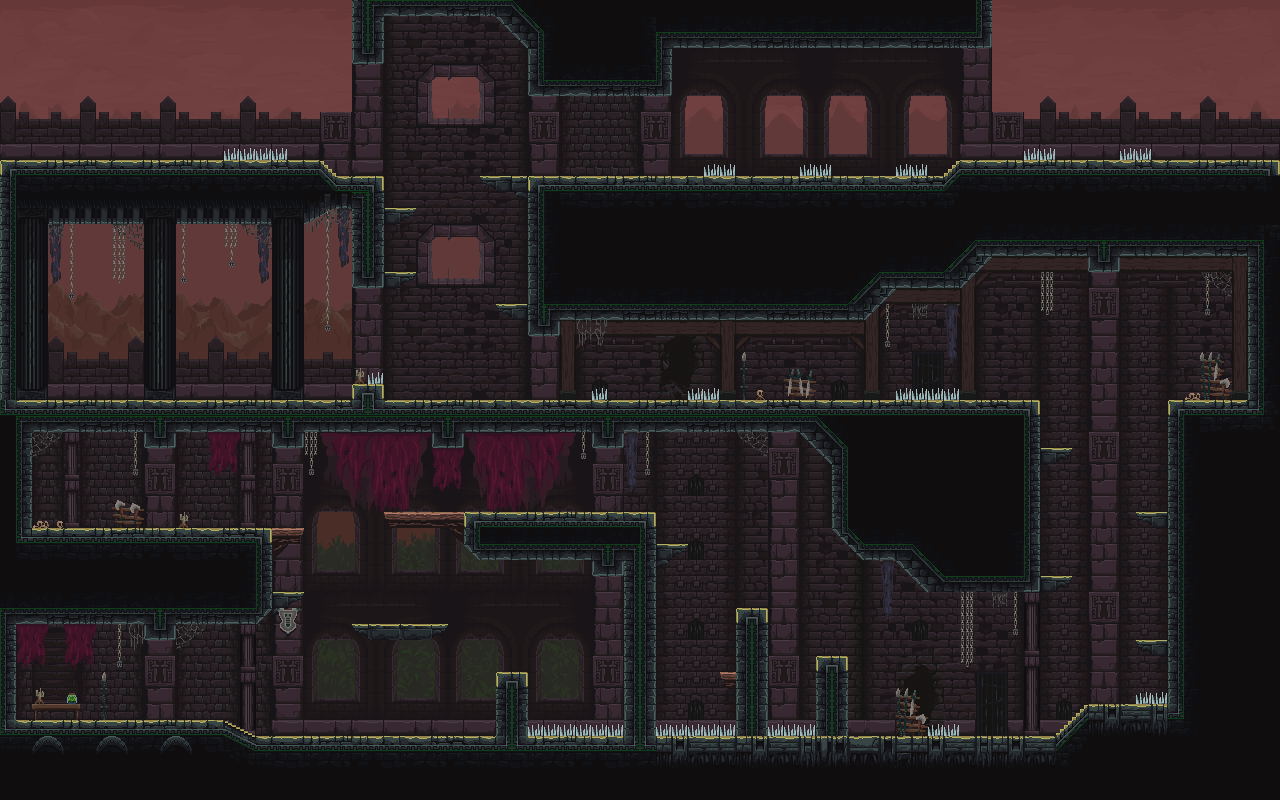
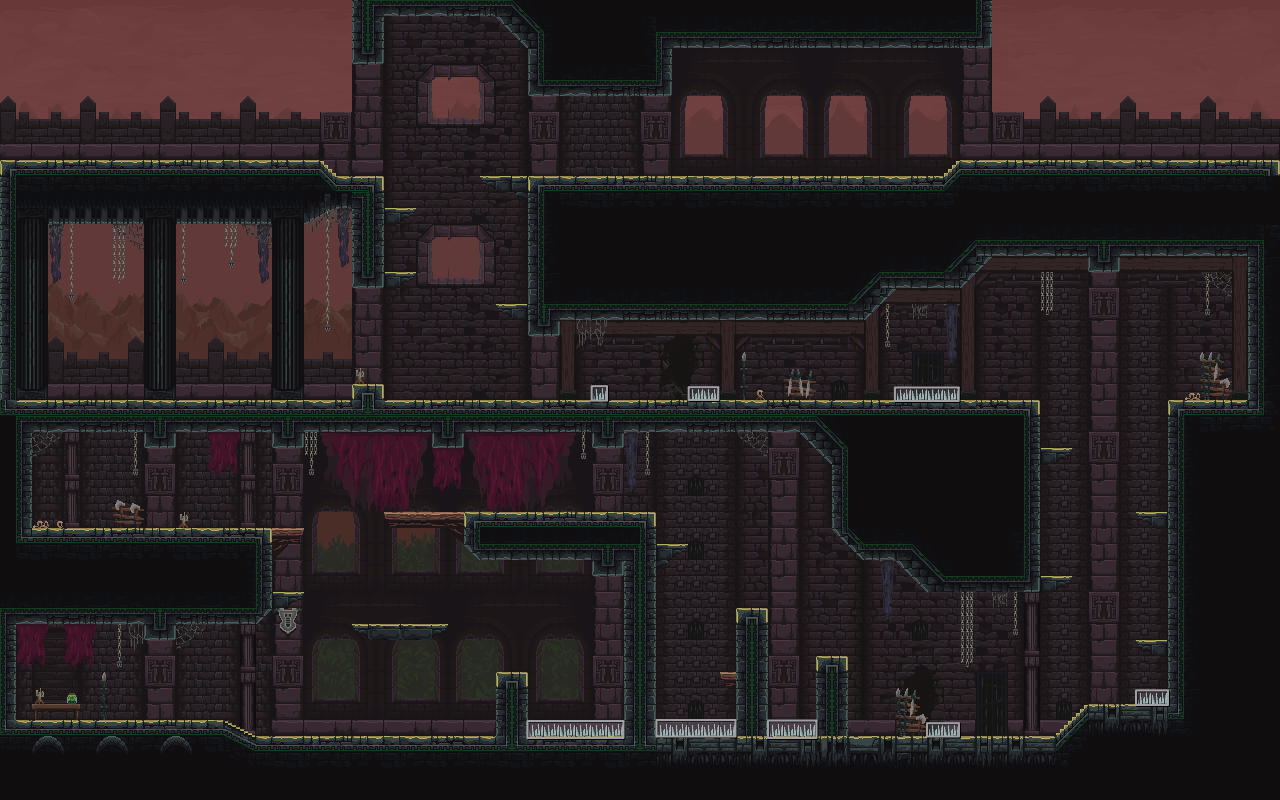
door

diff --git a/src/scenes/room4.js b/src/scenes/room4.js
@@ -6,7 +6,7 @@ import { state } from "../state/globalState";
 import { makeCartridge } from "./healthCartridge";
 import { healthBar } from "../ui/healthBar";
 import { makeNPC } from "../entities/npc"
-import { makeBox } from "../entities/Box";
+import { makeDoor } from "../entities/door"
 
 export function room4(k,room4Data,previousSceneData) {
    
@@ -18,13 +18,10 @@ export function room4(k,room4Data,previousSceneData) {
    const roomLayers = room4Data.layers;
    const map = k.add([k.pos(0,0), k.sprite("room4")]);
 
-
        const colliders = [];
-       const spikes = [];
        const positions = [];
        const cameras = [];  
        const exits = [];
-       
       
 
    
@@ -46,10 +43,11 @@ export function room4(k,room4Data,previousSceneData) {
            if (layer.name === "colliders") {
                colliders.push(...layer.objects);
            }
+           
+        
+           
+           
 
-           if (layer.name === "spikes") {
-                spikes.push(...layer.objects);
-           }
        }
 
        
@@ -62,24 +60,15 @@ export function room4(k,room4Data,previousSceneData) {
        setCameraControls(k,player,map, room4Data);
        setExitZones(k, map, exits, "room3");
 
-       for (const spike of spikes) {
-      k.add([
-        k.rect(spike.width, spike.height),
-        k.pos(spike.x, spike.y),
-        k.area(),
-        k.opacity(0),
-        "spike",
-    ]);
-  }
-        k.onCollide("player", "spike", (player) => {
-        player.hurt(5); // ลด HP เมื่อชนกับ หนาม
-    });
-
+           // ... (โค้ดส่วนบนอื่นๆ)
 
 // ✅ 1. หาบรรทัดที่วนลูปตำแหน่ง (positions)
 let spawned = false;
 
 for (const position of positions) {
+
+  console.log("🔥 positions:", positions);
+  console.log("👉 exitName:", previousSceneData?.exitName);
 
   if (position.name === "player" && !previousSceneData?.exitName) {
     player.setPosition(position.x, position.y);
@@ -87,17 +76,13 @@ for (const position of positions) {
     spawned = true;
     continue;
   }
-  if (position.name === "Tree") {      
-    const Tree = k.add(
-    makeBox(k, k.vec2(position.x, position.y))
-    );
-    continue;
-}
 
   if (
     position.name.includes("entrance-4") &&
     previousSceneData?.exitName === "exit-4"
   ) {
+    console.log("✅ เข้า entrance-4 แล้ว");
+
     player.setPosition(position.x, position.y + 20);
     player.setControl();
     spawned = true;
@@ -114,7 +99,20 @@ for (const position of positions) {
     spawned = true;
     continue;
   }
+  if (position.name === "door") {
+            // สร้าง object ประตูขึ้นมา
+            const door = makeDoor(k, k.vec2(position.x, position.y));
+            
+            // แอดเข้าไปในฉาก (หรือ map.add(door) ถ้าต้องการให้ยึดกับ map)
+            k.add(door); 
+            
+            continue;
+        }
+
+  
 }
+
+
 
 // 🔥 ต้องอยู่นอก loop เท่านั้น
 if (!spawned) {
@@ -134,7 +132,10 @@ if (!spawned) {
     if (player.walkSound) {
         player.walkSound.stop();
         player.walkSound = null;
-      }
-  });
-}
+    }
+});
 
+
+
+
+}

diff --git a/src/entities/door.js b/src/entities/door.js
@@ -1,0 +1,29 @@
+// door.js
+export function makeDoor(k, position) {
+    return k.make([
+        k.sprite("door"), // ใส่ชื่อ Sprite ที่คุณโหลดไว้
+        k.pos(position),
+         k.anchor("center"),
+       k.area({ shape: new k.Rect(k.vec2(0,0), 16, 90) }),
+        k.body({ isStatic: true }), // เป็นกำแพงที่เดินผ่านไม่ได้ในตอนแรก
+        k.offscreen({ hide: true }),
+        "door", // Tag สำหรับอ้างอิง
+        {
+            isOpen: false,
+            // ฟังก์ชันสำหรับสั่งเปิดประตู
+            open() {
+                if (this.isOpen) return;
+                this.isOpen = true;
+                this.unuse("body");    // ลบ Collider ออกเพื่อให้เดินผ่านได้
+                this.opacity = 0.3;     // ทำให้จางลงเพื่อให้รู้ว่าเปิดแล้ว
+            },
+            // ฟังก์ชันสำหรับสั่งปิดประตู (ถ้าต้องการ)
+            close() {
+                if (!this.isOpen) return;
+                this.isOpen = false;
+                this.use(k.body({ isStatic: true })); // กลับมาเป็นกำแพง
+                this.opacity = 1;
+            }
+        }
+    ]);
+}

diff --git a/src/kaplayLoader.js b/src/kaplayLoader.js
@@ -111,6 +111,14 @@ k.loadSprite("Box","./assets/box.png",{
     explode: { from: 0, to: 1 },
   }
 })
+k.loadSprite("door","./assets/door.png"),{
+  sliceX:1,
+  sliceY:1,
+  anims:{
+    idle: { from:0,to : 0, loop:true},
+    explode: { from: 0, to: 0 },
+  }
+}
 
 
 k.loadSprite("bgroom1", "assets/sprites/bts.png");
